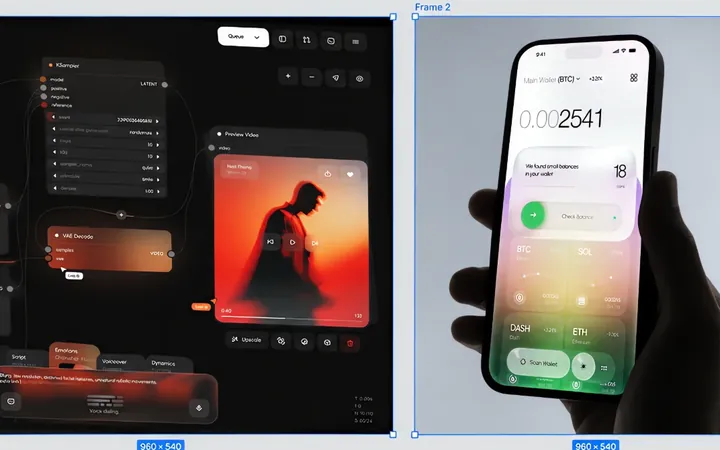
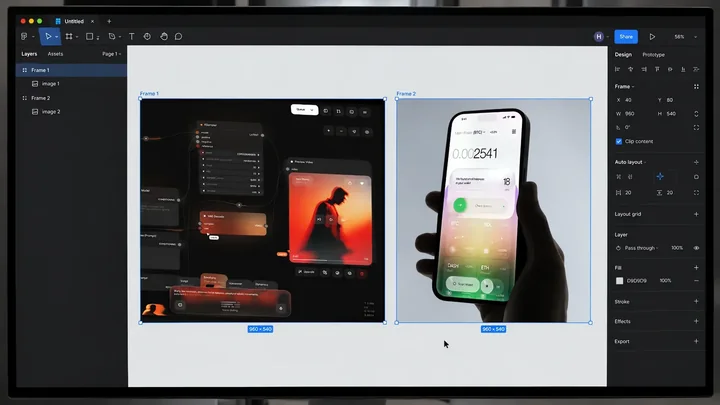
Movil: los disenos de Harley en Figma se ven enteros y entran al muro de Trabajos

diff --git a/src/components/movil/home/Trabajos.tsx b/src/components/movil/home/Trabajos.tsx
@@ -18,12 +18,13 @@ import './trabajos.css';
        secuestra el scroll.
 
    Las imagenes son las piezas de la galeria de Atlas (las mismas del
-   mosaico del escritorio) mas las portadas de Utopp y REGO, en blanco y
-   negro como alla. Son decorativas: el boton del centro lleva a los
-   proyectos. */
+   mosaico del escritorio), las portadas de Utopp y REGO y los diseños de
+   Harley en Figma (enteros, apaisados). Son decorativas: el boton del
+   centro lleva a los proyectos. */
 
-const COLUMNA_A = ['rego', 'obra-02', 'app-golf', 'obra-06', 'sitio-web'];
-const COLUMNA_B = ['obra-01', 'obra-04', 'utopp', 'obra-05', 'laboratorio', 'obra-03'];
+// figma-*: los diseños de Harley en Figma, la captura entera (apaisada)
+const COLUMNA_A = ['rego', 'figma-app-pagos', 'obra-02', 'app-golf', 'figma-kit-app', 'obra-06', 'sitio-web'];
+const COLUMNA_B = ['obra-01', 'figma-interfaces', 'obra-04', 'utopp', 'figma-panaderia', 'obra-05', 'laboratorio', 'obra-03'];
 
 function Columna({ piezas, lado }: { piezas: string[]; lado: 'a' | 'b' }) {
     return (
@@ -32,9 +33,21 @@ function Columna({ piezas, lado }: { piezas: string[]; lado: 'a' | 'b' }) {
                 {/* dos copias: el bucle cierra sin costura */}
                 {[0, 1].map((copia) => (
                     <div key={copia} className="h-trab-grupo">
-                        {piezas.map((p) => (
-                            <img key={p} src={`/assets/movil/trabajos/${p}.webp`} width={480} height={720} alt="" loading="lazy" decoding="async" />
-                        ))}
+                        {piezas.map((p) => {
+                            const ancho = p.startsWith('figma-');
+                            return (
+                                <img
+                                    key={p}
+                                    src={`/assets/movil/trabajos/${p}.webp`}
+                                    className={ancho ? 'is-ancho' : undefined}
+                                    width={480}
+                                    height={ancho ? 283 : 720}
+                                    alt=""
+                                    loading="lazy"
+                                    decoding="async"
+                                />
+                            );
+                        })}
                     </div>
                 ))}
             </div>

diff --git a/src/components/movil/nosotros/Carrusel.tsx b/src/components/movil/nosotros/Carrusel.tsx
@@ -3,14 +3,15 @@
 import { useEffect, useRef, useState } from 'react';
 import { Flecha, FlechaDer, FlechaIzq } from '../iconos';
 
-/* Los diseños de Harley en Figma, en su ficha: un riel con scroll-snap nativo (se
+/* Los diseños de Harley en Figma, en su ficha (la captura entera, con la
+   interfaz de Figma alrededor): un riel con scroll-snap nativo (se
    desliza con el dedo) y dos flechas redondas que lo mueven una tarjeta.
    Es el unico JS propio de /nosotros: las flechas y saber si el riel esta
    en un extremo (calculado en un rAF por scroll, pasivo). */
 
 export type ItemCarrusel = { id: string; titulo: string; rol: string; src: string; completo: string };
 
-const PASO = 242; // 232 de tarjeta + 10 de espacio
+const PASO = 290; // 280 de tarjeta + 10 de espacio
 
 export function Carrusel({ items }: { items: ItemCarrusel[] }) {
     const riel = useRef<HTMLUListElement>(null);
@@ -58,7 +59,7 @@ export function Carrusel({ items }: { items: ItemCarrusel[] }) {
                     <li key={p.id} className="nos-riel-item">
                         <a href={p.completo} target="_blank" rel="noopener noreferrer">
                             <span className="nos-riel-img">
-                                <img src={p.src} width={720} height={450} alt="" loading="lazy" decoding="async" />
+                                <img src={p.src} width={720} height={424} alt="" loading="lazy" decoding="async" />
                                 <span className="nos-riel-ir" aria-hidden="true">
                                     <Flecha />
                                 </span>

diff --git a/src/components/movil/nosotros/nosotros.css b/src/components/movil/nosotros/nosotros.css
@@ -720,7 +720,7 @@
     display: none;
 }
 .nos-riel-item {
-    flex: 0 0 232px;
+    flex: 0 0 280px;
     scroll-snap-align: start;
 }
 .nos-riel-item a {
@@ -737,9 +737,10 @@
 .nos-riel-img img {
     width: 100%;
     height: auto;
-    aspect-ratio: 16 / 10;
-    object-fit: cover;
-    border-radius: 16px;
+    /* la captura completa de Figma, sin recortar */
+    aspect-ratio: 17 / 10;
+    object-fit: contain;
+    border-radius: 12px;
     background: #222326;
 }
 .nos-riel-ir {

diff --git a/src/components/movil/home/trabajos.css b/src/components/movil/home/trabajos.css
@@ -77,6 +77,12 @@
     border-radius: 18px;
     background: #141517;
 }
+/* los diseños en Figma van enteros, apaisados */
+.h-trab-grupo img.is-ancho {
+    aspect-ratio: 17 / 10;
+    object-fit: contain;
+    border-radius: 12px;
+}
 @keyframes h-trab-bucle-sube {
     from {
         transform: translateY(0);
